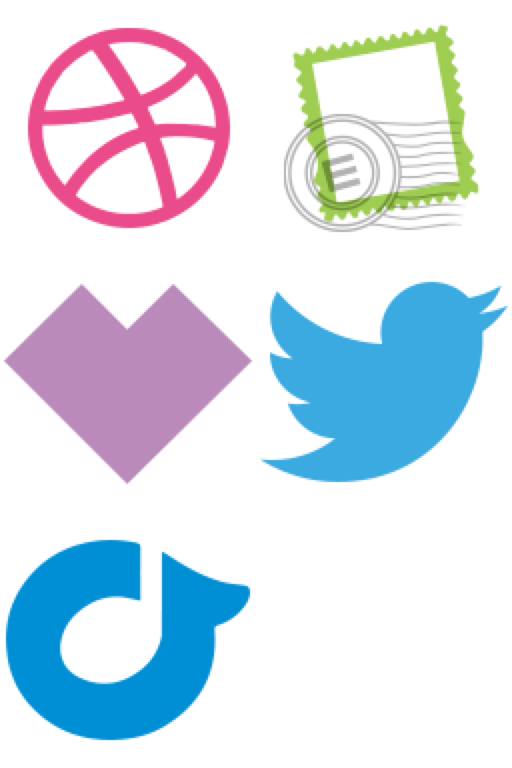
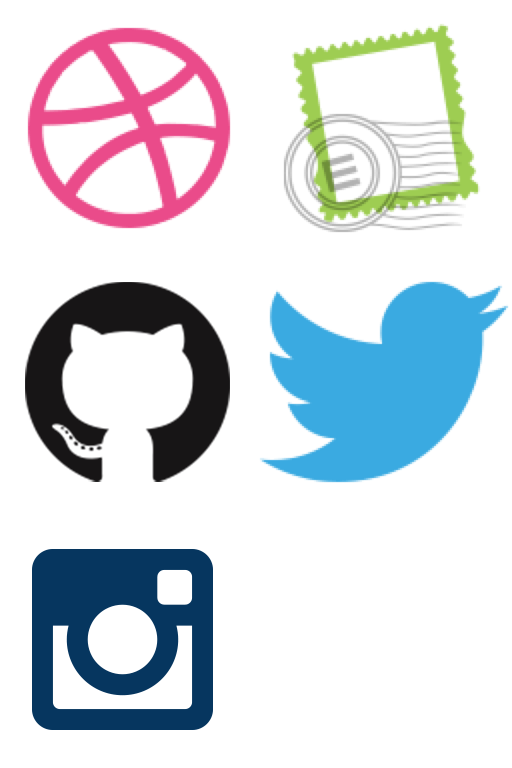
neon->github

Changed region(s): [[0.0, 0.6875, 0.5, 0.9688], [0.0, 0.3438, 0.5, 0.625]]

diff --git a/assets/stylesheets/elliot.css b/assets/stylesheets/elliot.css
@@ -1046,8 +1046,8 @@ ul.contact-links {
 
 .dribbble-icon,
 .email-icon,
-.neonmob-icon,
-.rdio-icon,
+.github-icon,
+.ig-icon,
 .twitter-icon {
   display: inline-block;
   position: relative;
@@ -1062,8 +1062,8 @@ ul.contact-links {
   height: 64px; }
   .dribbble-icon:hover,
   .email-icon:hover,
-  .neonmob-icon:hover,
-  .rdio-icon:hover,
+  .github-icon:hover,
+  .ig-icon:hover,
   .twitter-icon:hover {
     top: -4px; }
 
@@ -1073,10 +1073,10 @@ ul.contact-links {
 .email-icon {
   background-position: -64px 0px; }
 
-.neonmob-icon {
+.github-icon {
   background-position: 0px -64px; }
 
-.rdio-icon {
+.ig-icon {
   background-position: 0px -128px; }
 
 .twitter-icon {
@@ -1306,7 +1306,7 @@ ul.mobile.contact {
 
   .dribbble-icon,
   .email-icon,
-  .neonmob-icon,
+  .github-icon,
   .rdio-icon,
   .twitter-icon {
     width: 32px;
@@ -1318,7 +1318,7 @@ ul.mobile.contact {
   .email-icon {
     background-position: -32px 0px; }
 
-  .neonmob-icon {
+  .github-icon {
     background-position: 0px -32px; }
 
   .rdio-icon {
@@ -1417,7 +1417,7 @@ ul.mobile.contact {
     height: auto;
     margin-bottom: 0px; }
 
-  .dribbble-icon, .email-icon, .neonmob-icon, .rdio-icon, .twitter-icon {
+  .dribbble-icon, .email-icon, .github-icon, .rdio-icon, .twitter-icon {
     width: 32px;
     height: 32px;
     background-size: 200%; }
@@ -1434,7 +1434,7 @@ ul.mobile.contact {
   .email-icon {
     background-position: -32px 0px; }
 
-  .neonmob-icon {
+  .github-icon {
     background-position: 0px -32px; }
 
   .rdio-icon {

diff --git a/assets/stylesheets/_style.scss b/assets/stylesheets/_style.scss
@@ -155,8 +155,8 @@ ul.contact-links {
 }
 	.dribbble-icon,
 	.email-icon,
-	.neonmob-icon,
-	.rdio-icon,
+	.github-icon,
+	.ig-icon,
 	.twitter-icon{
 		display: inline-block;
 		position: relative;
@@ -181,11 +181,11 @@ ul.contact-links {
 	{
 		background-position:-64px 0px;
 	}
-	.neonmob-icon
+	.github-icon
 	{
 		background-position:0px -64px;
 	}
-	.rdio-icon
+	.ig-icon
 	{
 		background-position:0px -128px;
 	}
@@ -366,7 +366,7 @@ ul.mobile.contact {
 			ul.contact-links li {width:32px;padding: 16px 16px 0px;}
 			.dribbble-icon,
 			.email-icon,
-			.neonmob-icon,
+			.github-icon,
 			.rdio-icon,
 			.twitter-icon{
 				width:32px;
@@ -380,7 +380,7 @@ ul.mobile.contact {
 			{
 				background-position:-32px 0px;
 			}
-			.neonmob-icon
+			.github-icon
 			{
 				background-position:0px -32px;
 			}
@@ -442,7 +442,7 @@ ul.contact-links {
 	height: auto;
 	margin-bottom: 0px;
 }
-.dribbble-icon, .email-icon, .neonmob-icon, .rdio-icon, .twitter-icon {
+.dribbble-icon, .email-icon, .github-icon, .rdio-icon, .twitter-icon {
  width: 32px;
  height:32px;
  background-size: 200%;
@@ -461,7 +461,7 @@ footer h4 {
 	{
 		background-position:-32px 0px;
 	}
-	.neonmob-icon
+	.github-icon
 	{
 		background-position:0px -32px;
 	}

diff --git a/assets/javascripts/elliot.js b/assets/javascripts/elliot.js
@@ -89,18 +89,18 @@ $(document).ready(function(){
 		function () {
 			$('#contact-text').html('Where you can find me.');
 	});
-	$('ul.contact-links li.neonmob a').hover(
+	$('ul.contact-links li.github a').hover(
 		function() {
 
-			$('#contact-text').html('NeonMob');
+			$('#contact-text').html('Github');
 		},
 		function () {
 			$('#contact-text').html('Where you can find me.');
 	});
-	$('ul.contact-links li.rdio a').hover(
+	$('ul.contact-links li.ig a').hover(
 		function() {
 
-			$('#contact-text').html('Rdio');
+			$('#contact-text').html('Instagram');
 		},
 		function () {
 			$('#contact-text').html('Where you can find me.');

diff --git a/views/footer-home.php b/views/footer-home.php
@@ -2,7 +2,7 @@
 </div>
 <footer>
     <div id="about">
-			<p>Hello, I'm <strong>Elliot Greenwood</strong>, a designer &amp; developer from Oundle. I love creating the new face of a company or product. Although my strengths are on-screen, I enjoy creating things for the real world too.</p> 
+			<p>Hello, I'm <strong>Elliot Greenwood</strong>, a designer &amp; developer from Oundle. I love creating the new face of a company or product. Although my strengths are on-screen, I enjoy creating things for the real world too.</p>
         </div>
 	<ul class="contact-links">
 	    <li class="email">
@@ -14,11 +14,11 @@
 		<li class="dribbble">
 			<a href="http://dribbble.com/egnwd" target="_blank"><div class="dribbble-icon"></div></a>
 		</li>
-        <li class="neonmob">
-			<a href="https://www.neonmob.com/r/9HA3Q/" target="_blank"><div class="neonmob-icon"></div></a>
+        <li class="github">
+			<a href="https://github.com/egnwd" target="_blank"><div class="github-icon"></div></a>
 		</li>
-		<li class="rdio">
-			<a href="http://www.rdio.com/people/egnwd/" target="_blank"><div class="rdio-icon"></div></a>
+		<li class="ig">
+			<a href="http://instagram.com/egnwd" target="_blank"><div class="ig-icon"></div></a>
 		</li>
 		<div class="four columns">
 		    <h4 id="contact-text">Where you can find me.</h4>

diff --git a/views/menu.php b/views/menu.php
@@ -4,7 +4,7 @@
             <a href="<?php echo $GLOBALS['base'] ?>/" <?php echo (Flight::request()->url == "/" ? "class=\"active\"" : "") ?>>Work</a>
         </li>
         <li>
-            <a href="<?php echo $GLOBALS['base'] ?>/notes" <?php echo (Flight::request()->url == "/store" ? "class=\"active\"" : "") ?>>Notes</a>
+            <a href="<?php echo $GLOBALS['base'] ?>/notes" <?php echo (Flight::request()->url == "/notes" ? "class=\"active\"" : "") ?>>Notes</a>
         </li>
         <li>
             <a href="<?php echo $GLOBALS['base'] ?>/store" <?php echo (Flight::request()->url == "/store" ? "class=\"active\"" : "") ?>>Store</a>

diff --git a/views/layout.php b/views/layout.php
@@ -5,10 +5,10 @@
 	}
 ?>
 <!DOCTYPE html>
-<!--[if lt IE 7 ]><html class="ie ie6" lang="en"> <![endif]-->
-<!--[if IE 7 ]><html class="ie ie7" lang="en"> <![endif]-->
-<!--[if IE 8 ]><html class="ie ie8" lang="en"> <![endif]-->
-<!--[if (gte IE 9)|!(IE)]><!--><html lang="en" class="svg"> <!--<![endif]-->
+<!--[if lt IE 7 ]><html class="ie ie6" lang="en-gb"> <![endif]-->
+<!--[if IE 7 ]><html class="ie ie7" lang="en-gb"> <![endif]-->
+<!--[if IE 8 ]><html class="ie ie8" lang="en-gb"> <![endif]-->
+<!--[if (gte IE 9)|!(IE)]><!--><html lang="en-gb" class="svg"> <!--<![endif]-->
 <head>
 
 	<!-- Basic Page Needs
